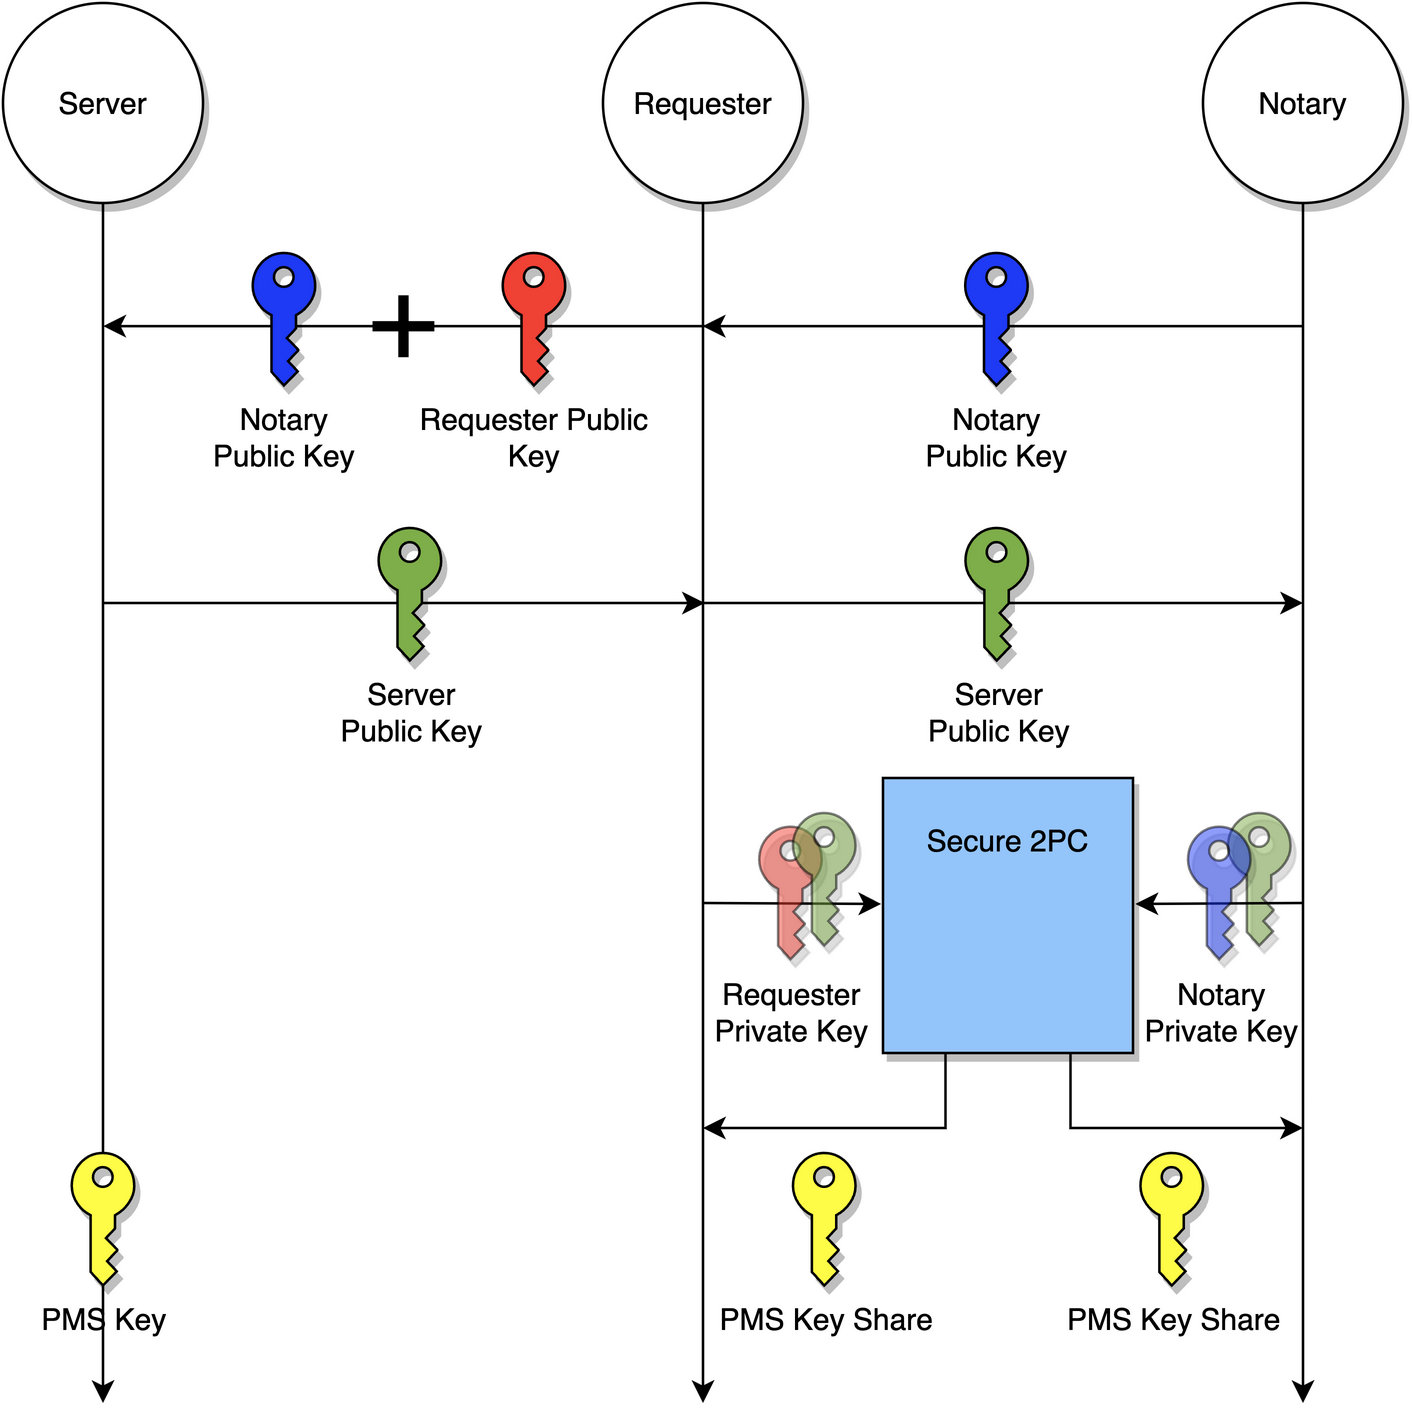
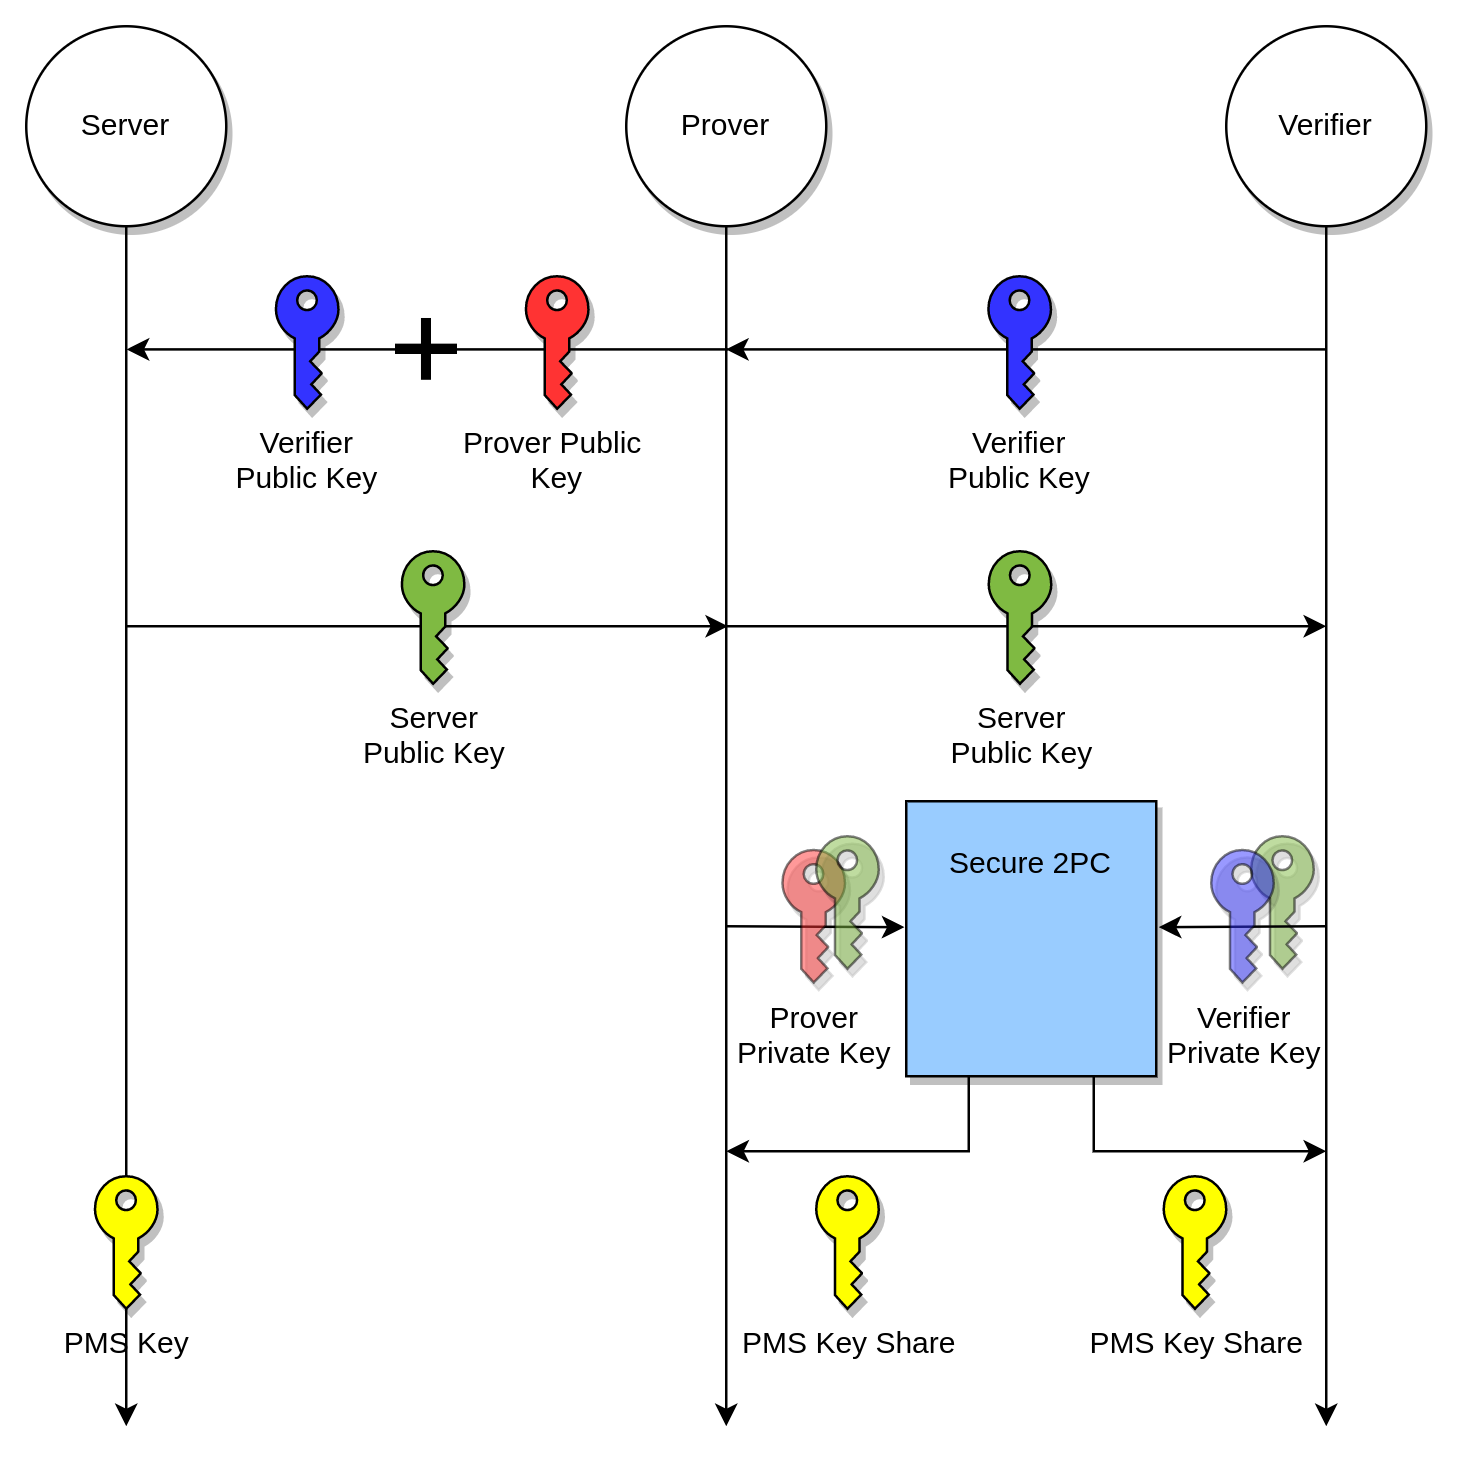
update key exchange

diff --git a/src/css/global.css b/src/css/global.css
@@ -1,3 +1,7 @@
 :root {
   --content-max-width: 1000px;
 }
+
+.aligncenter {
+  text-align: center;
+}

diff --git a/src/mpc/key_exchange.md b/src/mpc/key_exchange.md
@@ -1,33 +1,54 @@
 # Key Exchange
 
-In TLS, the first step towards obtaining TLS session keys is to compute a shared secret between the client and the server by running the [ECDH protocol](https://en.wikipedia.org/wiki/Elliptic-curve_Diffie–Hellman). The resulting shared secret in TLS terms is called the pre-master secret `PMS`.
+In TLS, the first step towards obtaining TLS session keys is to compute a shared secret between the client and the server by running the [ECDH protocol](https://en.wikipedia.org/wiki/Elliptic-curve_Diffie–Hellman). The resulting shared secret in TLS terms is called the pre-master secret.
 
-<img src="../../png-diagrams/key_exchange.png" width="800">
+<div class="aligncenter"><img src="../../png-diagrams/key_exchange.png" width="800"></div>
 
-Using the notation from Wikipedia, below is the 3-party ECDH protocol between the `Server` the `Requester` and the `Notary`, enabling the `Requester` and the `Notary` to arrive at shares of `PMS`.
+Below we will denote:
+
+- $P$ as the `Prover`
+- $V$ as the `Verifier`
+- $S$ as the `Server`
+- $\mathbb{pms}$ as the TLS pre-master secret.
+
+## ECDH
+
+Using the notation from Wikipedia, below is the 3-party ECDH protocol between $S$, $P$ and $V$, enabling $P$ and $V$ to arrive at shares of $\mathbb{pms}$.
 
 
-1. `Server` sends its public key $Q_b$ to `Requester`, and `Requester` forwards it to `Notary`
-2. `Requester` picks a random private key share $d_c$ and computes a public key share $Q_c = d_c * G$
-3. `Notary` picks a random private key share $d_n$ and computes a public key share $Q_n = d_n * G$
-4. `Notary` sends $Q_n$ to `Requester` who computes $Q_a = Q_c + Q_n $ and sends $Q_a$ to `Server`
-5. `Requester` computes an EC point $(x_p, y_p) = d_c * Q_b$
-6. `Notary` computes an EC point $(x_q, y_q) = d_n * Q_b$
-7. Addition of points $(x_p, y_p)$ and $(x_q, y_q)$ results in the coordinate $x_r$, which is `PMS`. (The coordinate $y_r$ is not used in TLS)
+1. $S$ sends its public key $Q_b$ to $P$, and $P$ forwards it to $V$
+2. $P$ picks a random private key share $d_c$ and computes a public key share $Q_c = d_c * G$
+3. $V$ picks a random private key share $d_n$ and computes a public key share $Q_n = d_n * G$
+4. $V$ sends $Q_n$ to $P$ who computes $Q_a = Q_c + Q_n $ and sends $Q_a$ to $S$
+5. $P$ computes an EC point $(x_p, y_p) = d_c * Q_b$
+6. $V$ computes an EC point $(x_q, y_q) = d_n * Q_b$
 
+Now our goal is to compute additive shares of $\mathbb{pms}$, which we'll redenote as $x_r$, using elliptic curve point addition
 
-Using the notation from [here](https://en.wikipedia.org/wiki/Elliptic_curve_point_multiplication#Point_addition), our goal is to compute
 $$ x_r = (\frac{y_q-y_p}{x_q-x_p})^2 - x_p - x_q $$
+
 in such a way that
-1. Neither party learns the other party's $x$ value
-2. Neither party learns $x_r$, only their respective shares of $x_r$.
 
-We will use two maliciously secure protocols described on p.25 in the paper [Eﬃcient Secure Two-Party Exponentiation](https://www.cs.umd.edu/~fenghao/paper/modexp.pdf):
+- Neither party learns the other party's share.
+- Neither party learns $x_r$, only their respective shares of $x_r$.
 
-- `A2M` protocol, which converts additive shares into multiplicative shares, i.e. given shares `a` and `b` such that `a + b = c`, it converts them into shares `d` and `e` such that `d * e = c`    
-- `M2A` protocol, which converts multiplicative shares into additive shares
+To do this we will need two functionalities defined below:
 
-We apply `A2M` to $y_q + (-y_p)$ to get $A_q * A_p$ and also we apply `A2M` to $x_q + (-x_p)$ to get $B_q * B_p$. Then the above can be rewritten as:
+### A2M
+
+$\mathsf{A2M}$ converts additive shares into multiplicative shares.
+
+For example, given additive shares $a$ and $b$ such that $a + b = c$, invoking $\mathsf{A2M}$ gives $(d, e) \larr (a, b)_{\mathsf{A2M}}$ such that $d * e = c$
+
+### M2A
+
+$\mathsf{M2A}$, which converts multiplicative shares into additive shares.
+
+For example, given multiplicative shares $d$ and $e$ such that $d * e = c$, invoking $\mathsf{M2A}$ gives $(a, b) \larr (d, e)_{\mathsf{M2A}}$ such that $a + b = c$
+
+### Deriving additive shares of the pre-master secret
+
+We apply $\mathsf{A2M}$ to $y_q + (-y_p)$ to get $A_q * A_p$ and also we apply $\mathsf{A2M}$ to $x_q + (-x_p)$ to get $B_q * B_p$. Then the above can be rewritten as:
 
 $$x_r = (\frac{A_q}{B_q})^2 * (\frac{A_p}{B_p})^2 - x_p - x_q $$
 
@@ -35,6 +56,8 @@ Then the first party locally computes the first factor and gets $C_q$, the secon
 
 $$x_r = C_q * C_p - x_p - x_q $$
 
-Now we apply `M2A` to $C_q * C_p$ to get $D_q + D_p$, which leads us to two final terms each of which is the share of $x_r$ of the respective party: 
+Now we apply $\mathsf{M2A}$ to $C_q * C_p$ to get $D_q + D_p$, which leads us to two final terms each of which is the share of $x_r$ of the respective party: 
 
 $$x_r = (D_q - x_q) + (D_p - x_p)$$
+
+Now each party holds their respective additive shares of the TLS pre-master secret.
